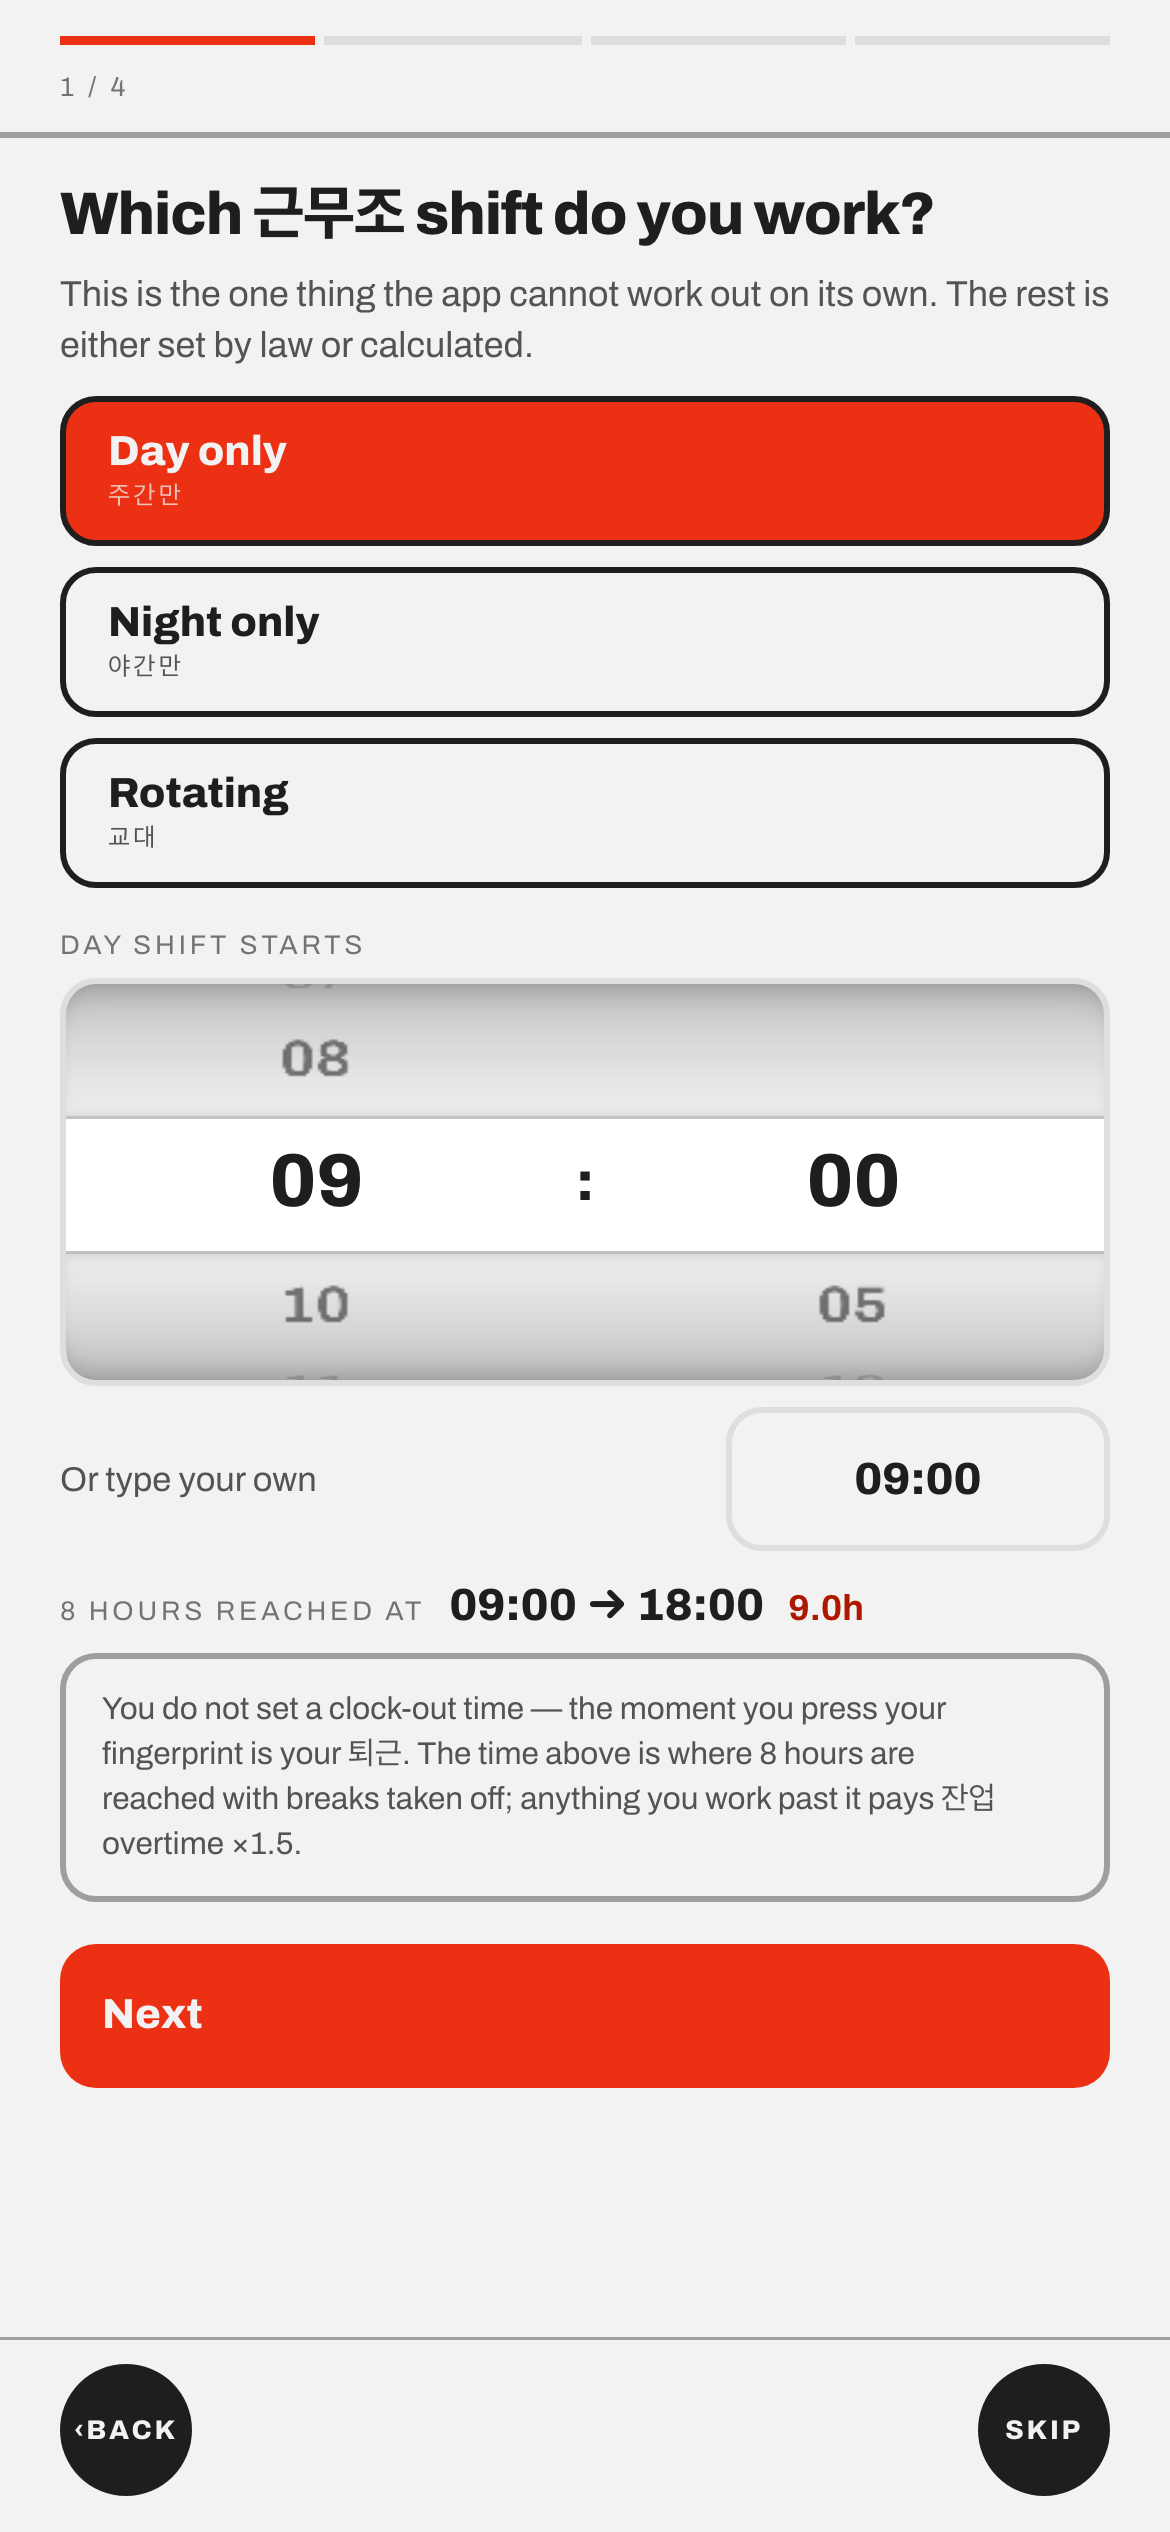
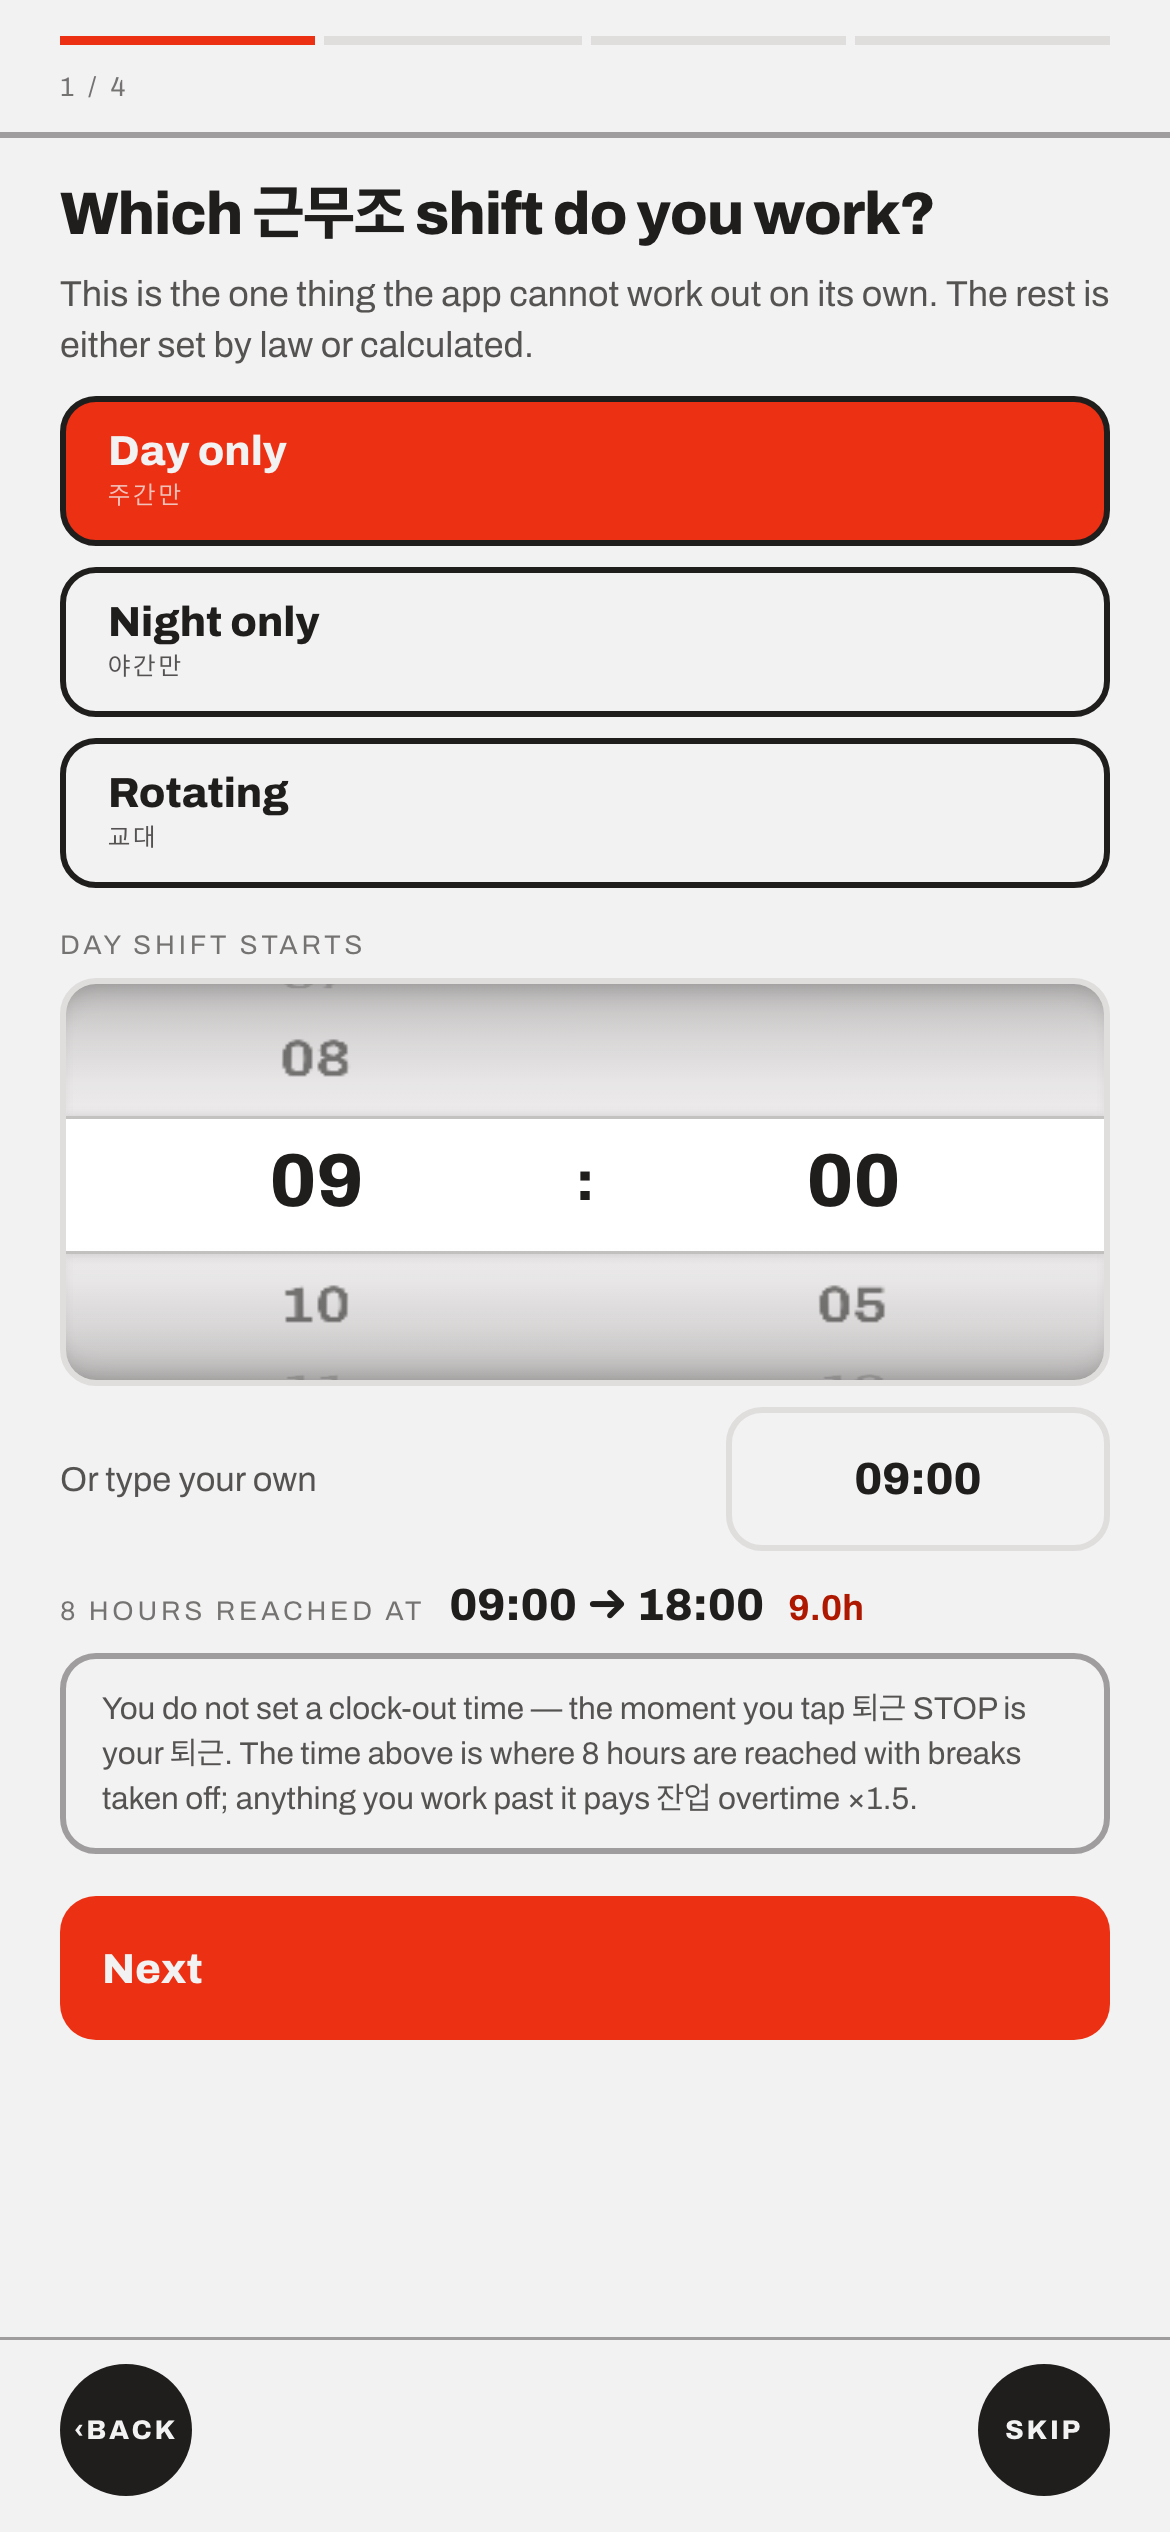
fix: LOGGER no longer claims a fingerprint pad; retake to 1.4.1
LOGGER replaced the fingerprint with one-tap START/STOP on 2026-10-26
(its CHANGELOG, eighty-sixth entry), and the 1.4.1 bundle has no WebAuthn.
Drop the fingerprint paragraph from the app page, rewrite the guide's
punch step, and re-shoot the pictures and sample record with npm run retake.

Changed region(s): [[0.0308, 0.6552, 0.9538, 0.8424]]

diff --git a/tools/sample-output/record.html b/tools/sample-output/record.html
@@ -1,1 +1,1 @@
-<!doctype html><meta charset="utf-8"><title>근무내역서 09.01 → 09.30</title><style>body{font-family:-apple-system,system-ui,"Malgun Gothic",sans-serif;margin:24px;color:#111;font-size:13px}h1{font-size:19px;margin:0 0 2px}h2{font-size:13px;margin:22px 0 6px;letter-spacing:.04em}table{border-collapse:collapse;width:100%;margin-top:4px}th,td{border:1px solid #bbb;padding:4px 6px;text-align:left}th{background:#eee;font-weight:600}td.n,th.n{text-align:right;font-variant-numeric:tabular-nums}.k{color:#666;font-size:11px}.warn{border:2px solid #ec3013;padding:8px 10px;margin-top:8px}.self{border:2px solid #111;padding:9px 11px;margin-top:9px;font-size:11.5px;line-height:1.55}.who{font-size:13px;margin-top:5px;line-height:1.5}.who b{font-weight:700}.who.nm{color:#ec3013;font-size:11.5px}.who .nm{color:#ec3013;font-size:11px}ol.k{margin:5px 0 0;padding-left:17px}ol.k li{margin-bottom:3px}ul{margin:4px 0;padding-left:18px}@media print{body{margin:0}}</style><h1>근무내역서 · Work record</h1><div class="who">근로자 성명 <b>Jane Doe</b></div><div class="who">사업장 <b>(주) 가나다산업</b></div><div class="k">급여기간 09.01 → 09.30 · 지급일 10.10 · 작성 2026.09.14</div><div class="self"><b>이 문서는 근로자 본인이 작성한 기록입니다.</b> 회사나 공공기관이 발행한 증명서가 아닙니다. 출퇴근 시각은 근로자 본인이 휴대폰에 기록한 것이고, 아래 금액은 그 기록과 본인이 입력한 임금 조건으로 앱이 계산한 <b>참고용 추정치</b>입니다.</div><h2>계산 기준</h2><table><tr><th>기본금</th><td class="n">₩2,156,880</td><th>기준시간</th><td class="n">209시간</td></tr><tr><th>통상시급</th><td class="n">₩10,320</td><th>연장 ×1.5</th><td class="n">₩15,480</td></tr><tr><th>야간 ×0.5</th><td class="n">₩5,160</td><th>휴일 8시간 초과 ×2</th><td class="n">₩20,640</td></tr></table><h2>일별 기록</h2><table><tr><th>날짜</th><th>구분</th><th>인정 출퇴근</th><th class="n">실근무</th><th class="n">연장</th><th class="n">야간</th><th class="n">휴일</th><th class="n">변동수당</th><th>사유</th></tr><tr><td>09.08 (화)</td><td>주간</td><td>09:00 → 18:00</td><td class="n">8.0</td><td class="n">0.0</td><td class="n">0.0</td><td class="n">0.0</td><td class="n">₩0</td><td></td></tr><tr><td>09.09 (수)</td><td>주간</td><td>09:00 → 18:00</td><td class="n">8.0</td><td class="n">0.0</td><td class="n">0.0</td><td class="n">0.0</td><td class="n">₩0</td><td></td></tr><tr><td>09.10 (목)</td><td>주간</td><td>09:00 → 18:00</td><td class="n">8.0</td><td class="n">0.0</td><td class="n">0.0</td><td class="n">0.0</td><td class="n">₩0</td><td></td></tr><tr><td>09.11 (금)</td><td>주간</td><td>09:00 → 18:00</td><td class="n">8.0</td><td class="n">0.0</td><td class="n">0.0</td><td class="n">0.0</td><td class="n">₩0</td><td></td></tr></table><h2>합계</h2><table><tr><th>근무일수</th><td class="n">4일</td><th>실근무 (정상)</th><td class="n">32.0시간</td></tr><tr><th>연장근로</th><td class="n">0.0시간</td><td class="n">₩0</td><td></td></tr><tr><th>야간근로</th><td class="n">0.0시간</td><td class="n">₩0</td><td></td></tr><tr><th>휴일근로</th><td class="n">0.0시간</td><td class="n">₩0</td><td></td></tr><tr><th>지급총액</th><td class="n">₩2,156,880</td><th>공제 후 실수령(추정)</th><td class="n">₩1,939,990</td></tr></table><h2>안내</h2><ol class="k"><li>이 문서는 근로자 본인의 기록을 정리한 <b>참고자료</b>이며, 법률 자문이나 노무 상담이 아닙니다. 이 문서를 만든 앱과 그 제작자는 공인노무사·변호사가 아니며, 어떤 사건도 대리하거나 대행하지 않습니다.</li><li>임금의 지급 여부와 그 금액에 대한 판단은 <b>고용노동부와 공인노무사·변호사</b>의 몫입니다. 확정 금액은 회사가 발행한 급여명세서와 근로계약서를 따릅니다.</li><li>소득세와 4대보험은 추정치이므로 실제 공제액과 다를 수 있습니다. 앱이 아는 법령과 요율이 현재와 다를 수 있으므로, 이 문서의 금액은 반드시 별도로 확인하십시오.</li><li>상담은 <b>고용노동부 고객상담센터 ☎ 1350</b> (평일 09:00–18:00, 통역 지원) 또는 노동포털 labor.moel.go.kr, 가까운 외국인노동자지원센터에서 <b>무료로</b> 받을 수 있습니다.</li></ol><div class="k" style="margin-top:6px">작성 도구: 근무기록 LOGGER 1.2.25 — 오프라인 앱, 기록은 본인 휴대폰에만 저장됩니다.</div>
+<!doctype html><meta charset="utf-8"><title>근무내역서 09.01 → 09.30</title><style>body{font-family:-apple-system,system-ui,"Malgun Gothic",sans-serif;margin:24px;color:#111;font-size:13px}h1{font-size:19px;margin:0 0 2px}h2{font-size:13px;margin:22px 0 6px;letter-spacing:.04em}table{border-collapse:collapse;width:100%;margin-top:4px}th,td{border:1px solid #bbb;padding:4px 6px;text-align:left}th{background:#eee;font-weight:600}td.n,th.n{text-align:right;font-variant-numeric:tabular-nums}.k{color:#666;font-size:11px}.warn{border:2px solid #ec3013;padding:8px 10px;margin-top:8px}.self{border:2px solid #111;padding:9px 11px;margin-top:9px;font-size:11.5px;line-height:1.55}.who{font-size:13px;margin-top:5px;line-height:1.5}.who b{font-weight:700}.who.nm{color:#ec3013;font-size:11.5px}.who .nm{color:#ec3013;font-size:11px}ol.k{margin:5px 0 0;padding-left:17px}ol.k li{margin-bottom:3px}ul{margin:4px 0;padding-left:18px}@media print{body{margin:0}}</style><h1>근무내역서 · Work record</h1><div class="who">근로자 성명 <b>Jane Doe</b></div><div class="who">사업장 <b>(주) 가나다산업</b></div><div class="k">급여기간 09.01 → 09.30 · 지급일 10.10 · 작성 2026.09.14</div><div class="self"><b>이 문서는 근로자 본인이 작성한 기록입니다.</b> 회사나 공공기관이 발행한 증명서가 아닙니다. 출퇴근 시각은 근로자 본인이 휴대폰에 기록한 것이고, 아래 금액은 그 기록과 본인이 입력한 임금 조건으로 앱이 계산한 <b>참고용 추정치</b>입니다.</div><h2>계산 기준</h2><table><tr><th>기본금</th><td class="n">₩2,156,880</td><th>기준시간</th><td class="n">209시간</td></tr><tr><th>통상시급</th><td class="n">₩10,320</td><th>연장 ×1.5</th><td class="n">₩15,480</td></tr><tr><th>야간 ×0.5</th><td class="n">₩5,160</td><th>휴일 8시간 초과 ×2</th><td class="n">₩20,640</td></tr></table><h2>일별 기록</h2><table><tr><th>날짜</th><th>구분</th><th>인정 출퇴근</th><th class="n">실근무</th><th class="n">연장</th><th class="n">야간</th><th class="n">휴일</th><th class="n">변동수당</th><th>사유</th></tr><tr><td>09.08 (화)</td><td>주간</td><td>09:00 → 18:00</td><td class="n">8.0</td><td class="n">0.0</td><td class="n">0.0</td><td class="n">0.0</td><td class="n">₩0</td><td></td></tr><tr><td>09.09 (수)</td><td>주간</td><td>09:00 → 18:00</td><td class="n">8.0</td><td class="n">0.0</td><td class="n">0.0</td><td class="n">0.0</td><td class="n">₩0</td><td></td></tr><tr><td>09.10 (목)</td><td>주간</td><td>09:00 → 18:00</td><td class="n">8.0</td><td class="n">0.0</td><td class="n">0.0</td><td class="n">0.0</td><td class="n">₩0</td><td></td></tr><tr><td>09.11 (금)</td><td>주간</td><td>09:00 → 18:00</td><td class="n">8.0</td><td class="n">0.0</td><td class="n">0.0</td><td class="n">0.0</td><td class="n">₩0</td><td></td></tr></table><h2>합계</h2><table><tr><th>근무일수</th><td class="n">4일</td><th>실근무 (정상)</th><td class="n">32.0시간</td></tr><tr><th>연장근로</th><td class="n">0.0시간</td><td class="n">₩0</td><td></td></tr><tr><th>야간근로</th><td class="n">0.0시간</td><td class="n">₩0</td><td></td></tr><tr><th>휴일근로</th><td class="n">0.0시간</td><td class="n">₩0</td><td></td></tr><tr><th>지급총액</th><td class="n">₩2,156,880</td><th>공제 후 실수령(추정)</th><td class="n">₩1,939,990</td></tr></table><h2>안내</h2><ol class="k"><li>이 문서는 근로자 본인의 기록을 정리한 <b>참고자료</b>이며, 법률 자문이나 노무 상담이 아닙니다. 이 문서를 만든 앱과 그 제작자는 공인노무사·변호사가 아니며, 어떤 사건도 대리하거나 대행하지 않습니다.</li><li>임금의 지급 여부와 그 금액에 대한 판단은 <b>고용노동부와 공인노무사·변호사</b>의 몫입니다. 확정 금액은 회사가 발행한 급여명세서와 근로계약서를 따릅니다.</li><li>소득세와 4대보험은 추정치이므로 실제 공제액과 다를 수 있습니다. 앱이 아는 법령과 요율이 현재와 다를 수 있으므로, 이 문서의 금액은 반드시 별도로 확인하십시오.</li><li>상담은 <b>고용노동부 고객상담센터 ☎ 1350</b> (평일 09:00–18:00, 통역 지원) 또는 노동포털 labor.moel.go.kr, 가까운 외국인노동자지원센터에서 <b>무료로</b> 받을 수 있습니다.</li></ol><div class="k" style="margin-top:6px">작성 도구: 근무기록 LOGGER 1.4.1 — 오프라인 앱, 기록은 본인 휴대폰에만 저장됩니다.</div>

diff --git a/guides/logger.md b/guides/logger.md
@@ -49,11 +49,11 @@ steps:
     body: Three things set, and the app is ready. From here it records shifts and works out what you are owed.
 after:
   - image: 07-punch
-    alt: The daily punch screen, showing the date, an assumed day shift, and a fingerprint pad reading "verify to clock in".
+    alt: The daily punch screen, showing the date, an assumed day shift, and a round START button under the clock.
     kicker: Every day
     title: One tap when you arrive, one when you leave
-    body: Press the pad with your fingerprint. The app decides on its own whether it was a day or a night shift and takes your breaks off. Nothing to fill in.
-    note: No fingerprint sensor? The pad says so, and you press and hold it instead. Forgot to punch at the start? Tap "I clocked in earlier today" and type the real time. There is also a calendar for adding a whole shift you already worked — pick the date, set the hours, confirm.
+    body: Tap 출근 START when you arrive and 퇴근 STOP when you leave. The app decides on its own whether it was a day or a night shift and takes your breaks off. Nothing to fill in.
+    note: Forgot to tap START? Tap "I clocked in earlier today" and type the time you really began. For a whole shift you already worked, the 근무 Past shift button opens a calendar — pick the date, set the clock-in and clock-out times, confirm.
   - image: 08-pay
     alt: The pay screen showing an estimated take-home figure with a breakdown of earnings below it.
     kicker: Any time

diff --git a/CHANGELOG.md b/CHANGELOG.md
@@ -9,6 +9,11 @@ All notable changes to this site are recorded here. The format follows
 ### Fixed
 - A release that changes its icon no longer stops every deploy. LOGGER 1.4.0 did, and the site
   stayed on 1.3.0 under an expired New pill from 2026-10-26. The sync now carries the icon.
+- The LOGGER page and guide no longer say the punch pad uses a fingerprint. LOGGER dropped it
+  on 2026-10-26; you now tap 출근 START and 퇴근 STOP, and the guide says so.
+- The LOGGER guide pictures show 1.4.1 again. The capture scripts had been tapping a button
+  hidden under the new welcome screen; they now only tap what is on top, and `npm run retake
+  -- logger` works.
 
 ### Changed
 - An app update is committed to `sync/candidate`, tested there, and only then moved to `main`,

diff --git a/apps/logger.md b/apps/logger.md
@@ -60,7 +60,6 @@ release:
   source: itsdoubleem/Logger_app
   asset: worklog-release.apk
   signer: 115e06d0d0561fabf41daaf832fe1fa058519a60bbc3729719fecb75f6e610da
-  captured: '1.2.25'
 ---
 
 ## What it does
@@ -141,7 +140,3 @@ have one.
 The trade-off is real and you should know it: if you lose the phone or clear the app's
 data, the records are gone. Use the backup export in 설정 › Backup, and keep the
 file somewhere you control.
-
-If your phone has a fingerprint sensor, the punch pad can use it, so clocking in is one
-touch. The fingerprint never leaves the phone either — the app only ever learns that the
-check passed.
